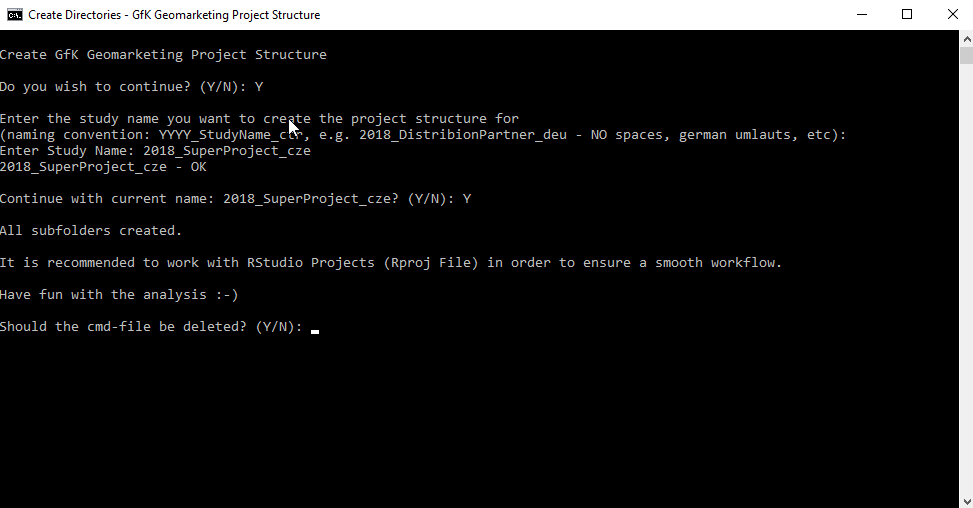
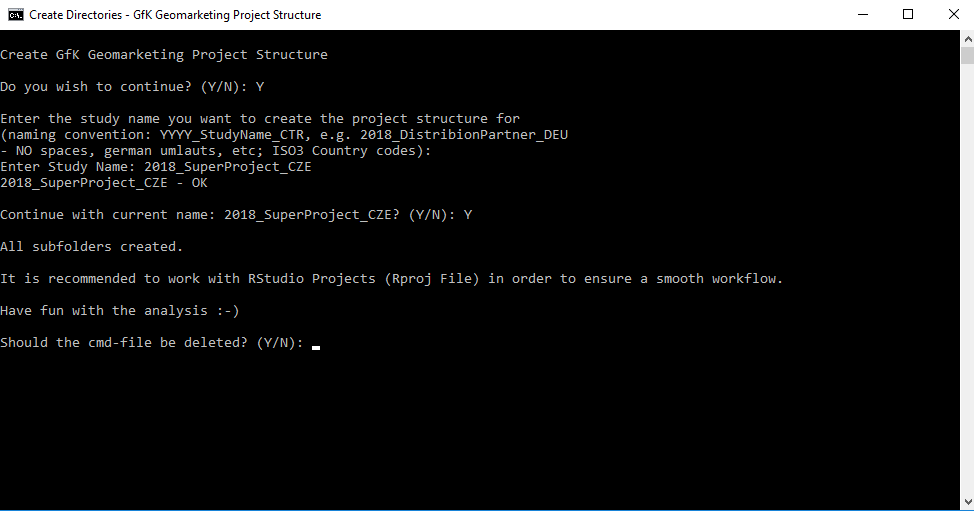
bump version

diff --git a/README.html b/README.html
@@ -318,6 +318,11 @@ $(document).ready(function () {
 <p>The <em>projmaker</em> should help to setup a project at GeoInsights. In future projects, a common structure for folders and a common guideline for file naming should be applied.</p>
 <p>In general, this is a corpus (minimal set) of folders structured according to a general workflow typical at GeoInsights. Feel free to add or delete folders (e.g. <em>0111_regiograph_files</em>).<br />
 There should be ample room for individual modifications to create a best structure for any given project. Especially the top level folder structure should remain as proposed here.</p>
+<p>Currently, the convention for naming project folders is <em>YYYY_StudyName_CTR</em>, e.g. <em>2018_DistributionPartner_DEU</em>. This means:</p>
+<ul>
+<li>no spaces, german umlauts, special characters, etc.</li>
+<li>capital ISO3 country codes.</li>
+</ul>
 <p>If you have suggestions please contact <a href="mailto:christoph.stepper@gfk.com">Christoph Stepper</a> or <a href="mailto:anja.waldmann@gfk.com">Anja Waldmann</a>.</p>
 </div>
 <div id="current-structure" class="section level2">
@@ -364,7 +369,7 @@ Doing so, you can use relative paths to navigate to files within the project and
 <li>Delete <em>cmd</em> from the root directory (either automatically or manually)</li>
 </ul></li>
 </ol>
[2 lines of base64/hex data omitted]
 </div>
 <div id="setup-rstudio-project" class="section level3">
 <h3>Setup RStudio Project</h3>

diff --git a/README.md b/README.md
@@ -16,6 +16,13 @@ There should be ample room for individual modifications to create a best
 structure for any given project. Especially the top level folder
 structure should remain as proposed here.
 
+Currently, the convention for naming project folders is
+*YYYY\_StudyName\_CTR*, e.g. *2018\_DistributionPartner\_DEU*. This
+means:
+
+  - no spaces, german umlauts, special characters, etc.
+  - capital ISO3 country codes.
+
 If you have suggestions please contact [Christoph
 Stepper](mailto:christoph.stepper@gfk.com) or [Anja
 Waldmann](mailto:anja.waldmann@gfk.com).

diff --git a/NEWS.md b/NEWS.md
@@ -1,3 +1,10 @@
+# projmaker 0.1.1
+
+- changed naming convention to capital ISO3 country codes
+- renamed package DESCRIPTION file to PACKAGE, as it is no R package
+- updated documentation
+
+
 # projmaker 0.1.0
 
 initial release
